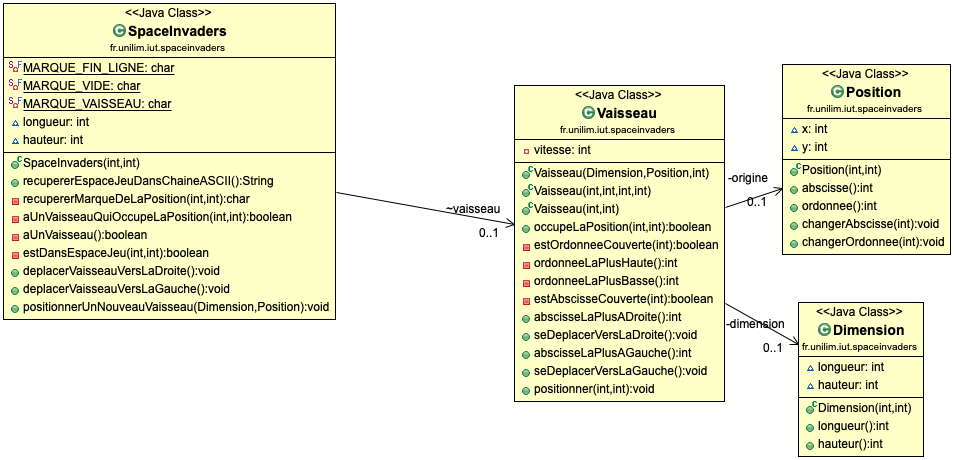
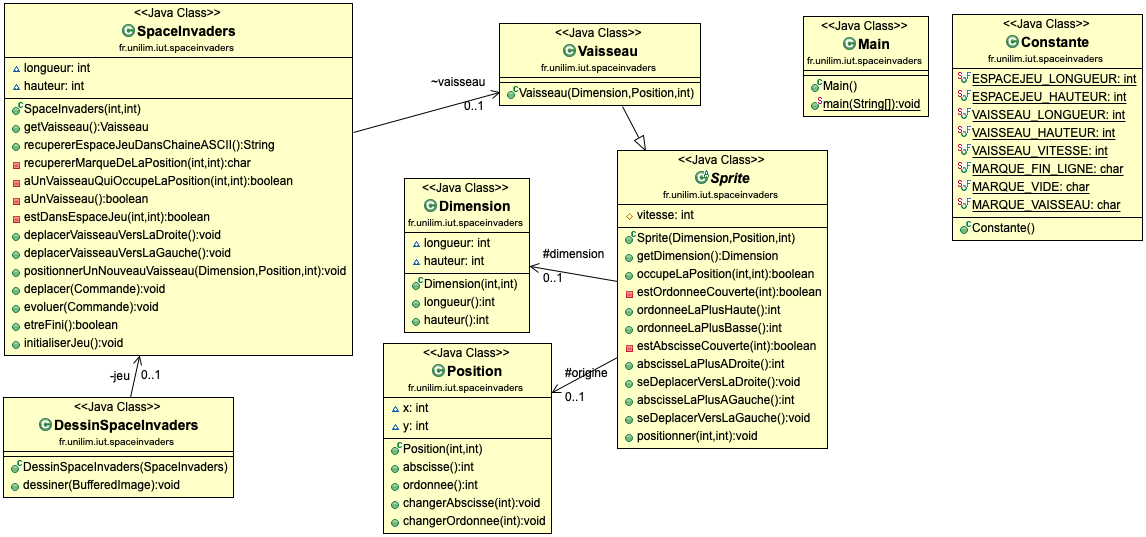
Création classe Direction
Création classe Missile

diff --git a/src/main/java/fr/unilim/iut/spaceinvaders/SpaceInvaders.java b/src/main/java/fr/unilim/iut/spaceinvaders/SpaceInvaders.java
@@ -4,12 +4,14 @@ import fr.unilim.iut.spaceinvaders.moteurjeu.Commande;
 import fr.unilim.iut.spaceinvaders.moteurjeu.Jeu;
 import fr.unilim.iut.spaceinvaders.utils.DebordementEspaceJeuException;
 import fr.unilim.iut.spaceinvaders.utils.HorsEspaceJeuException;
+import fr.unilim.iut.spaceinvaders.utils.MissileException;
 
 public class SpaceInvaders implements Jeu{
 		
 	int longueur;
     int hauteur;
     Vaisseau vaisseau;
+    Missile missile;
     
 
     public SpaceInvaders(int longueur, int hauteur) {
@@ -19,6 +21,10 @@ public class SpaceInvaders implements Jeu{
     
     public Vaisseau getVaisseau() {
 		return this.vaisseau;
+	}
+    
+    public Missile getMissile() {
+		return this.missile;
 	}
     
 
@@ -34,23 +40,33 @@ public class SpaceInvaders implements Jeu{
 	}
 	
 
-	private char recupererMarqueDeLaPosition(int x, int y) {
+	public char recupererMarqueDeLaPosition(int x, int y) {
 		char marque;
 		if (this.aUnVaisseauQuiOccupeLaPosition(x, y))
 		      marque= Constante.MARQUE_VAISSEAU;
-		else
-		      marque= Constante.MARQUE_VIDE;
+		else if(this.aUnMissileQuiOccupeLaPosition(x,y))
+		      marque= Constante.MARQUE_MISSILE;
+		else 
+			marque = Constante.MARQUE_VIDE;
 		return marque;
 	}
 	
+
+	private boolean aUnMissileQuiOccupeLaPosition(int x, int y) {
+		return this.aUnMissile() && missile.occupeLaPosition(x, y);
+	}
+
+	public boolean aUnMissile() {
+		return missile != null;
+	}
 
 	private boolean aUnVaisseauQuiOccupeLaPosition(int x, int y) {
 		return this.aUnVaisseau() && vaisseau.occupeLaPosition(x, y);
 	}
 
 	
-	private boolean aUnVaisseau() {
-		return vaisseau!=null;
+	public boolean aUnVaisseau() {
+		return vaisseau != null;
 	}
 
 
@@ -61,7 +77,7 @@ public class SpaceInvaders implements Jeu{
 
 	public void deplacerVaisseauVersLaDroite() {
 		if (vaisseau.abscisseLaPlusADroite() < (longueur - 1)) {
-			vaisseau.seDeplacerVersLaDroite();
+			vaisseau.deplacerHorizontalementVers(Direction.DROITE);
 			if (!estDansEspaceJeu(vaisseau.abscisseLaPlusADroite(), vaisseau.ordonneeLaPlusHaute())) {
 				vaisseau.positionner(longueur - vaisseau.getDimension().longueur(), vaisseau.ordonneeLaPlusHaute());
 			}
@@ -71,7 +87,7 @@ public class SpaceInvaders implements Jeu{
 
 	public void deplacerVaisseauVersLaGauche() {
 		if (0 < vaisseau.abscisseLaPlusAGauche())
-			vaisseau.seDeplacerVersLaGauche();
+			vaisseau.deplacerHorizontalementVers(Direction.GAUCHE);
 		if (!estDansEspaceJeu(vaisseau.abscisseLaPlusAGauche(), vaisseau.ordonneeLaPlusHaute())) {
 			vaisseau.positionner(0, vaisseau.ordonneeLaPlusHaute());
 		}
@@ -107,12 +123,17 @@ public class SpaceInvaders implements Jeu{
 		{
 			this.deplacerVaisseauVersLaDroite();
 		}
+		
 	}
 
 
 	public void evoluer(Commande commandeUser) {
 		
 		this.deplacer(commandeUser);
+		
+		if (commandeUser.tir && !this.aUnMissile()) {
+			tirerUnMissile(new Dimension(Constante.MISSILE_LONGUEUR, Constante.MISSILE_HAUTEUR), Constante.MISSILE_VITESSE);
+		}
 	}
 
 
@@ -126,6 +147,21 @@ public class SpaceInvaders implements Jeu{
 		Dimension dimensionVaisseau = new Dimension(Constante.VAISSEAU_LONGUEUR, Constante.VAISSEAU_HAUTEUR);
 		positionnerUnNouveauVaisseau(dimensionVaisseau, positionVaisseau, Constante.VAISSEAU_VITESSE);
 	 }
+
+	public void tirerUnMissile(Dimension dimensionMissile, int vitesseMissile) {
+		
+		   if ((vaisseau.dimension.hauteur + dimensionMissile.hauteur()) > this.hauteur )
+			   throw new MissileException("Pas assez de hauteur libre entre le vaisseau et le haut de l'espace jeu pour tirer le missile");
+							
+		   this.missile = this.vaisseau.tirerUnMissile(dimensionMissile,vitesseMissile);
+    }
+
+	public void deplacerMissile() {
+		this.missile.deplacerVerticalementVers(Direction.HAUT_ECRAN);
+		if(this.missile.origine.ordonnee()+this.hauteur == this.hauteur)
+			this.missile=null;
+		
+	}
 	
 	
 	

diff --git a/src/test/java/fr/unilim/iut/spaceinvaders/SpaceInvadersTest.java b/src/test/java/fr/unilim/iut/spaceinvaders/SpaceInvadersTest.java
@@ -8,6 +8,7 @@ import org.junit.Test;
 
 import fr.unilim.iut.spaceinvaders.utils.DebordementEspaceJeuException;
 import fr.unilim.iut.spaceinvaders.utils.HorsEspaceJeuException;
+import fr.unilim.iut.spaceinvaders.utils.MissileException;
 
 public class SpaceInvadersTest {
 	
@@ -231,6 +232,78 @@ public class SpaceInvadersTest {
        "...............\n" + 
        "VVV............\n" + 
        "VVV............\n" , spaceinvaders.recupererEspaceJeuDansChaineASCII());
-     }
+    }
+	
+	
+	@Test
+    public void test_MissileBienTireDepuisVaisseau_VaisseauLongueurImpaireMissileLongueurImpaire() {
+
+	   spaceinvaders.positionnerUnNouveauVaisseau(new Dimension(7,2),new Position(5,9), 2);
+	   spaceinvaders.tirerUnMissile(new Dimension(3,2),2);
+
+      assertEquals("" + 
+      "...............\n" + 
+      "...............\n" +
+      "...............\n" + 
+      "...............\n" + 
+      "...............\n" + 
+      "...............\n" + 
+      ".......MMM.....\n" + 
+      ".......MMM.....\n" + 
+      ".....VVVVVVV...\n" + 
+      ".....VVVVVVV...\n" , spaceinvaders.recupererEspaceJeuDansChaineASCII());
+    }
+	
+	
+	@Test(expected = MissileException.class)
+	public void test_PasAssezDePlacePourTirerUnMissile_UneExceptionEstLevee() throws Exception { 
+	   spaceinvaders.positionnerUnNouveauVaisseau(new Dimension(7,2),new Position(5,9), 1);
+	   spaceinvaders.tirerUnMissile(new Dimension(7,9),1);
+	}
+	
+	@Test
+    public void test_MissileAvanceAutomatiquement_ApresTirDepuisLeVaisseau() {
+
+	   spaceinvaders.positionnerUnNouveauVaisseau(new Dimension(7,2),new Position(5,9), 2);
+	   spaceinvaders.tirerUnMissile(new Dimension(3,2),2);
+
+	   spaceinvaders.deplacerMissile();
+	   
+       assertEquals("" + 
+       "...............\n" + 
+       "...............\n" +
+       "...............\n" + 
+       "...............\n" + 
+       ".......MMM.....\n" + 
+       ".......MMM.....\n" + 
+       "...............\n" + 
+       "...............\n" + 
+       ".....VVVVVVV...\n" + 
+       ".....VVVVVVV...\n" , spaceinvaders.recupererEspaceJeuDansChaineASCII());
+    }
+	
+	
+	@Test
+	   public void test_MissileDisparait_QuandIlCommenceASortirDeEspaceJeu() {
+
+		   spaceinvaders.positionnerUnNouveauVaisseau(new Dimension(7,2),new Position(5,9), 1);
+		   spaceinvaders.tirerUnMissile(new Dimension(3,2),1);
+		   for (int i = 1; i <=6 ; i++) {
+			   spaceinvaders.deplacerMissile();
+		   }
+		   
+		   spaceinvaders.deplacerMissile();
+	       assertEquals("" +
+	       "...............\n" + 
+	       "...............\n" +
+	       "...............\n" + 
+	       "...............\n" +
+	       "...............\n" +
+	       "...............\n" + 
+	       "...............\n" +
+	       "...............\n" + 
+	       ".....VVVVVVV...\n" + 
+	       ".....VVVVVVV...\n" , spaceinvaders.recupererEspaceJeuDansChaineASCII());
+	 }
 	 
 }

diff --git a/src/main/java/fr/unilim/iut/spaceinvaders/DessinSpaceInvaders.java b/src/main/java/fr/unilim/iut/spaceinvaders/DessinSpaceInvaders.java
@@ -15,12 +15,31 @@ public class DessinSpaceInvaders implements DessinJeu {
 		this.jeu = jeu;
 	}
 
-	public void dessiner(BufferedImage image) {
-		SpaceInvaders s = (SpaceInvaders) jeu;
-		Vaisseau vaisseau = s.getVaisseau();
-		Graphics2D crayon = (Graphics2D) image.getGraphics();
+	public void dessiner(BufferedImage im) {
+		if (this.jeu.aUnVaisseau()) {
+		   Vaisseau vaisseau = this.jeu.getVaisseau();
+		   this.dessinerUnVaisseau(vaisseau, im);
+		}
+		if (this.jeu.aUnMissile()) {
+			Missile missile = this.jeu.getMissile();
+			this.dessinerUnMissile(missile, im);
+		}
+	}
+
+	private void dessinerUnVaisseau(Vaisseau vaisseau, BufferedImage im) {
+		   
+		Graphics2D crayon = (Graphics2D) im.getGraphics();
+
 		crayon.setColor(Color.black);
-		crayon.fillRect(vaisseau.abscisseLaPlusAGauche(), vaisseau.ordonneeLaPlusBasse(), vaisseau.getDimension().longueur, vaisseau.getDimension().hauteur);
+		crayon.fillRect(vaisseau.abscisseLaPlusAGauche(), vaisseau.ordonneeLaPlusBasse(), vaisseau.dimension.longueur(), vaisseau.dimension.hauteur());
+
+	}
+	
+	private void dessinerUnMissile(Missile missile, BufferedImage im) {
+		Graphics2D crayon = (Graphics2D) im.getGraphics();
+
+		crayon.setColor(Color.blue);
+		crayon.fillRect(missile.abscisseLaPlusAGauche(), missile.ordonneeLaPlusBasse(), missile.dimension.longueur, missile.dimension.hauteur);
 	}
 
 }

diff --git a/src/main/java/fr/unilim/iut/spaceinvaders/Vaisseau.java b/src/main/java/fr/unilim/iut/spaceinvaders/Vaisseau.java
@@ -1,10 +1,28 @@
 package fr.unilim.iut.spaceinvaders;
 
+import fr.unilim.iut.spaceinvaders.utils.MissileException;
+
 public class Vaisseau extends Sprite {
 	
 	public Vaisseau(Dimension dimension, Position positionOrigine, int vitesse) {
 		super(dimension, positionOrigine, vitesse);
 	}
+
+	private Position calculerLaPositionDeTirDuMissile(Dimension dimensionMissile) {
+		int abscisseMilieuVaisseau = this.abscisseLaPlusAGauche() + (dimension.longueur() / 2);
+		int abscisseOrigineMissile = abscisseMilieuVaisseau - (dimensionMissile.longueur() / 2);
+
+		int ordonneeeOrigineMissile = this.ordonneeLaPlusBasse() - 1;
+		Position positionOrigineMissile = new Position(abscisseOrigineMissile, ordonneeeOrigineMissile);
+		return positionOrigineMissile;
+	}
 	
+	public Missile tirerUnMissile(Dimension dimensionMissile, int vitesseMissile){
+		if(dimensionMissile.longueur > this.dimension.longueur)
+			throw new MissileException("la longueur du missile est supérieure à celle du vaisseau");
+		
+		Position positionOrigineMissile = calculerLaPositionDeTirDuMissile(dimensionMissile);
+		return new Missile(dimensionMissile, positionOrigineMissile, vitesseMissile);
+	}
 	
 }

diff --git a/src/main/java/fr/unilim/iut/spaceinvaders/Sprite.java b/src/main/java/fr/unilim/iut/spaceinvaders/Sprite.java
@@ -41,21 +41,21 @@ public abstract class Sprite {
 		return this.origine.abscisse() + this.dimension.longueur() - 1;
 	}
 
-	public void seDeplacerVersLaDroite() {
-		this.origine.changerAbscisse(this.origine.abscisse() + vitesse);
-	}
-
 	public int abscisseLaPlusAGauche() {
 		return this.origine.abscisse();
 	}
-
-	public void seDeplacerVersLaGauche() {
-		this.origine.changerAbscisse(this.origine.abscisse() - vitesse);
-	}
-
+	
 	public void positionner(int x, int y) {
 		this.origine.changerAbscisse(x);
 	    this.origine.changerOrdonnee(y);
+	}
+	
+	public void deplacerVerticalementVers(Direction direction) {
+		this.origine.changerOrdonnee(this.origine.ordonnee() + direction.valeur()*vitesse);
+	}
+	
+	public void deplacerHorizontalementVers(Direction direction) {
+		this.origine.changerAbscisse(this.origine.abscisse() + direction.valeur()*vitesse);
 	}
 
 }

diff --git a/src/main/java/fr/unilim/iut/spaceinvaders/Constante.java b/src/main/java/fr/unilim/iut/spaceinvaders/Constante.java
@@ -7,9 +7,14 @@ public class Constante {
 
     public static final int VAISSEAU_LONGUEUR = 30;
     public static final int VAISSEAU_HAUTEUR = 20;
-    public static final int VAISSEAU_VITESSE = 5;
+    public static final int VAISSEAU_VITESSE = 2;
 
     public static final char MARQUE_FIN_LIGNE = '\n';
     public static final char MARQUE_VIDE = '.';
     public static final char MARQUE_VAISSEAU = 'V';
+	public static final char MARQUE_MISSILE = 'M';
+	
+	public static final int MISSILE_LONGUEUR = 5;
+	public static final int MISSILE_HAUTEUR = 5;
+	public static final int MISSILE_VITESSE = 1;
 }

diff --git a/src/main/java/fr/unilim/iut/spaceinvaders/moteurjeu/Controleur.java b/src/main/java/fr/unilim/iut/spaceinvaders/moteurjeu/Controleur.java
@@ -60,6 +60,9 @@ public class Controleur implements KeyListener {
 			this.commandeEnCours.bas = true;
 			this.commandeARetourner.bas = true;
 			break;
+		case KeyEvent.VK_SPACE:
+			this.commandeEnCours.tir = true;
+			this.commandeARetourner.tir = true;
 		default:
 			break;
 		}
@@ -79,6 +82,8 @@ public class Controleur implements KeyListener {
 		case KeyEvent.VK_DOWN:
 			this.commandeEnCours.bas = false;
 			break;
+		case KeyEvent.VK_SPACE:
+			this.commandeEnCours.tir = false;
 		default: break;
 		}
 	}

diff --git a/src/main/java/fr/unilim/iut/spaceinvaders/moteurjeu/Commande.java b/src/main/java/fr/unilim/iut/spaceinvaders/moteurjeu/Commande.java
@@ -15,6 +15,7 @@ public class Commande {
 	public boolean droite;
 	public boolean haut;
 	public boolean bas;
+	public boolean tir;
 
 	public Commande()
 	{
@@ -31,7 +32,8 @@ public class Commande {
 		this.bas=commandeACopier.bas;
 		this.haut=commandeACopier.haut;
 		this.gauche=commandeACopier.gauche;
-		this.droite=commandeACopier.droite;		
+		this.droite=commandeACopier.droite;	
+		this.tir=commandeACopier.tir;
 	}
 	
 }
